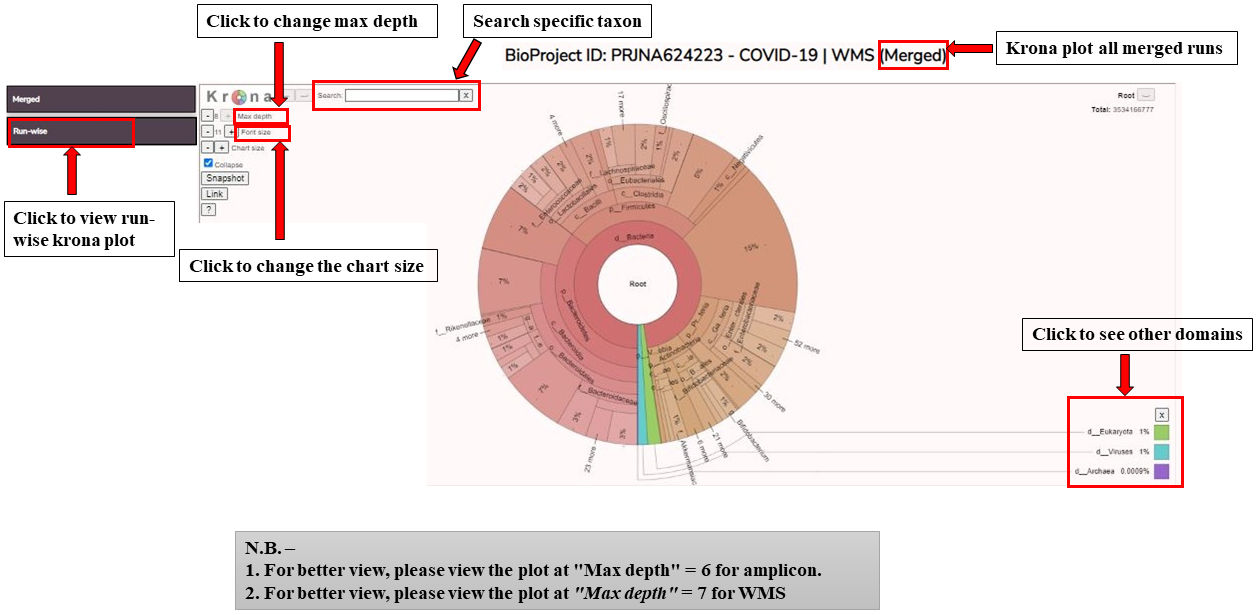
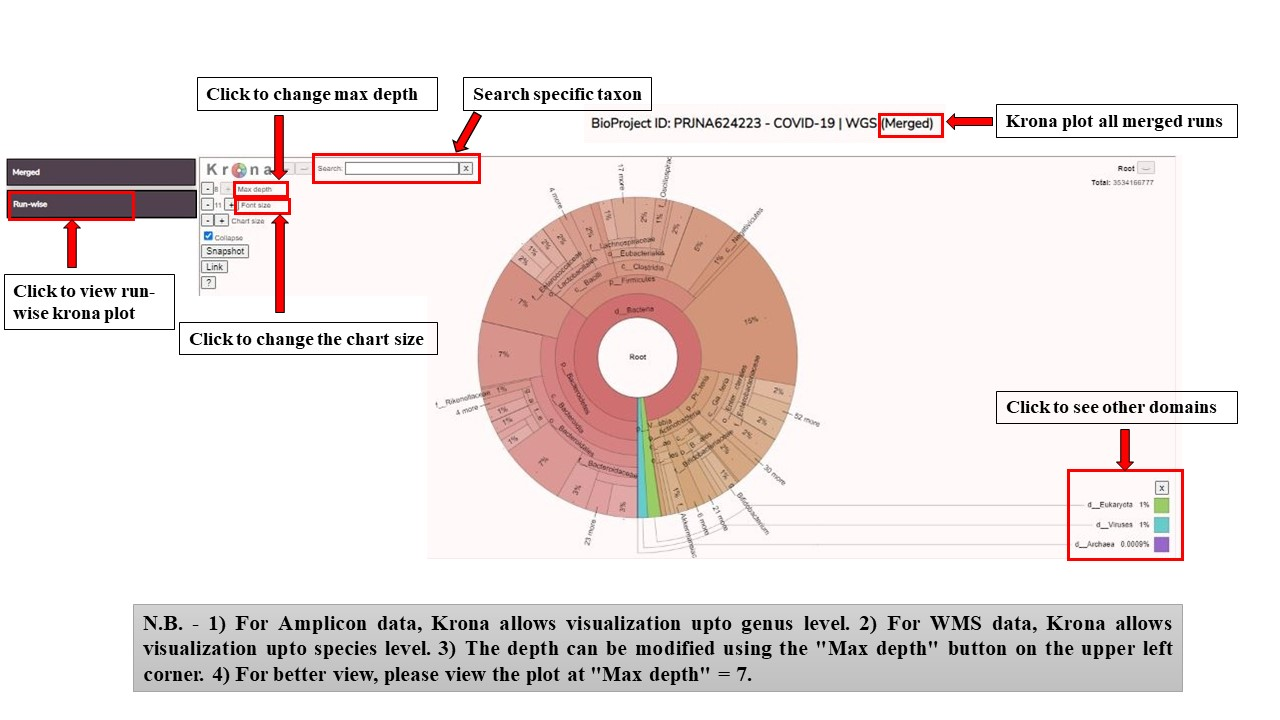
Update 'Help' page figures

diff --git a/help.html b/help.html
@@ -14,6 +14,10 @@
             p{
                 font-size: 1.2em;
             }
+            img{
+                max-width: 100%;
+                width: auto;
+            }
         </style>
     </head>
     <body>
@@ -40,14 +44,15 @@
             <ol type="1">
                 <li>
                     <p>The <b>Search Option</b> on the home page allows users to query the database with specific
-                    keywords for Disease, Assay type, Country, Isolation source, Instrument, Year.</p>
+                    keywords for <i>Disease</i>, <i>Assay type</i>, <i>Country</i>, <i>Isolation source</i>,
+                    <i>Instrument</i> and <i>Year</i>.</p>
                     <center><img src="resource/search.jpg" height="300px" /></center>
                     <ol type="A">
                         <li>
-                            <p>The <b>search result page</b> provides the information of the Run ID, BioProject ID, SRA
-                            Study ID, Disease, Disease Sub-group, Isolation Source, Instrument, Assay Type,
-                            Country and Year.</p>
-                            <center><img src="resource/search_result.jpg" height="500px" /></center>
+                            <p>The <b>search result page</b> provides information about the Run ID, BioProject ID,
+                            SRA Study ID, Disease, Disease Sub-group, Isolation Source, Instrument, Assay Type,
+                            Country, and Year.</p>
+                            <center><img src="resource/search_result.jpg" height="400px" /></center>
                         </li>
                         <li>
                             <p>The <b>Run page</b> gives the information of the Experiment ID, BioSample ID, Average
@@ -58,25 +63,29 @@
                         <li>
                             <p>The <b>BioProject page</b> shows the information related to the study and the total number of
                             runs of the BioProject. If subgroups are present for the study, then a plot of differential
-                            taxa can be accessed by LDA plot. Taxonomic profile can be visualized with Krona plots for
-                            group or subgroup. The Run ID (s) link to the <b>Run page</b> and the link just beneath the title
+                            taxa can be visualized as LDA plot. Taxonomic profiles can be visualized with Krona plots for
+                            group or subgroup. The Run ID(s) link to the <b>Run page</b> and the link just beneath the title
                             leads to the NCBI BioProject page.</p>
                             <center><img src="resource/bioproject_page.jpg" height="500px" /></center>
                         </li>
                         <li>
                             <p>The <b>LDA (Linear Discriminant Analysis) plot</b> provides information about the
-                            differential biomarkers (genus for amplicon and species for WMS). While the bars denote the
-                            marker genus/species, the length depicts the log<sub>10</sub> (LDA score) (log<sub>10</sub> LDA &ge; 2).</p>
-                            <center><img src="resource/lda.jpg" height="500px" /></center>
+                            differential biomarkers (genus for amplicon; and species for WMS). The horizontal
+                            bars represent the genus/species and the length of the bar denotes the LDA score
+                            (log<sub>10</sub>). LDA score signifies the effect size of each differentially
+                            abundant microbe. A cut-off of <i>log<sub>10</sub> LDA &ge; 2</i> was chosen for
+                            making the plot. The Kruskal-Wallis cutoff <i>p-value &lt; 0.01</i> was chosen.
+                            <center><img src="resource/lda.jpg" height="600px" /></center>
                         </li>
                         <li>
-                            <p>The taxonomic profile of microbiome data of different isolation sources such as sputum,
-                            BAL, Stool can be visualized by Krona plots. Two types of krona plots were made, (i) by
-                            merging all the runs and (ii) by keeping individual runs. The taxonomic level changes from
-                            lower (genus/species) to higher level (domain) as we move from the outer ring to the inner
-                            ring of the plot.<br/>
-                            For a better view, see the plot at <i>"max depth = 6"</i> for amplicon (amplicon) and
-                            <i>"max depth = 7"</i> for WMS (species).</p>
+                            <p>The taxonomic composition of microbiome data of different isolation sources of lung
+                            conditions can be visualized by Krona plots. Two types of Krona plots are present in the
+                            database, (i) for merged sequence runs and (ii) for each sequence runs. The hierarchical
+                            taxonomic classification can be visualized with this plot with genus/species at the outer
+                            ring and the inner ring denoting the domains. The color gradient shows the abundant taxa
+                            (red) and green denotes the least abundant taxa.<br/>
+                            For a better view, see the plot at <i>"max depth = 6"</i> for amplicon (genus) and
+                            <i>"max depth = 7"</i> for WGS (species).
                             <table style="width:100%;">
                                 <tr>
                                     <td style="width:48%; margin:0 1% 0 1%;">(a)</td>
@@ -94,54 +103,66 @@
                 </li>
 
                 <li>
-                    <p>The browse page of MDPD is divided into four parts.</p>
+                    <p>The browse page of MDPD has five sections.</p>
                     <ol type="A">
                         <li>
-                            <p><b>Disease-wise BioProjects</b> provide the information about the studies associated with the
-                            disease. </p>
-                            <center><img src="resource/disease_wise_bioprojects.jpg" height="200px" /></center>
+                            <p>The first section provides information about the <b>Disease-wise BioProjects</b>.</p>
+                            <center><img src="resource/disease_wise_bioprojects.jpg" height="300px" /></center>
                             <p>Click any one of the diseases to view the list of BioProjects associated with the study.
                             Click one BioProject to go to the <b>BioProject page</b>.</p>
-                            <center><img src="resource/disease_wise_bioprojects_1.jpg" height="300px" /></center>
+                            <center><img src="resource/disease_wise_bioprojects_1.jpg" height="400px" /></center>
+                            <p>Click the checkbox to show only BioProjects with Healthy/Control.</p>
+                            <center><img src="resource/disease_wise_bioprojects_2.jpg" height="400px" /></center>
                         </li>
                         <li>
-                            <p><b>Disease-wise taxonomic profile (Krona plot) across isolation sources</b> help users to
-                            view the taxonomic profile of microbiome across different isolation sources of the lung
-                            diseases and healthy group using krona plot.</p>
-                            <center><img src="resource/krona_table.jpg" height="400px" /></center>
+                            <p>The second section provides information about the <b>Disease subgroup-wise BioProjects</b>.</p>
+                            <center><img src="resource/subgroup_wise_bioprojects_1.jpg" height="300px" /></center>
+                            <p>Click any one of the disease subgroups to view the list of BioProjects associated with
+                            the study. Click one BioProject to go to the BioProject page.</p>
+                            <center><img src="resource/subgroup_wise_bioprojects_2.jpg" height="300px" /></center>
                         </li>
                         <li>
-                            <p><b>Disease-wise similarity analysis across Gut-Lung biomes</b> enables the users to fetch
-                            the list of shared prevalent microbes between lung and gut microbiome of each lung disease
-                            and healthy group. Isolation sources with the highest number of runs were taken for the
-                            analysis such as "sputum" and "stool" for "Asthma". Click <i>"get result"</i> to view the shared
-                            prevalent microbes.</p>
-                            <center><img src="resource/similarity_table.jpg" height="350px" /></center>
-                            <p>The prevalent taxa that are unique to lung, unique to gut biome
-                            and shared by both biome can be visualized with <b>UpSet plot</b>. The
-                            shared prevalent taxa list can be seen by <b>diverging bar plot (Likert)</b>.
-                            A cut-off of minimum prevalence of 50% at detection
-                            level &ge; 0.0001 was taken to obtain the prevalent taxa.</p>
+                            <p>The third section provides the facility of <b>visualizing the taxonomic profile</b> of
+                            the microbiome across different isolation sources of the lung conditions using a <b>Krona
+                            plot</b>.</p>
+                            <center><img src="resource/krona_table.jpg" height="500px" /></center>
+                        </li>
+                        <li>
+                            <p>The fourth section enables the users to obtain the list of <b>shared prevalent taxa
+                            between lung and gut microbiomes</b> of different lung conditions. The isolation sources
+                            with the highest number of runs for lung and gut were taken for this analysis. Click
+                            <b>"Get result"</b> to view the shared microbes plot.
+                            <center><img src="resource/similarity_table.jpg" height="400px" /></center>
+                            <p>The <b>UpSet plot</b> shows the number of organisms that are found in the lungs, gut,
+                            and microbiomes. The <b>Likert plot</b> (diverging bar plot) depicts the prevalence of
+                            the organisms that are found in both lung and gut microbiomes. A <i>prevalence cut-off</i>
+                            of 50% at a <i>detection level &ge; 0.0001</i> was taken to get the prevalent taxa.</p>
                             <center><img src="resource/similarity_figure.jpg" height="500px" /></center>
                         </li>
                         <li>
-                            <p><b>Differential analyses of disease pairs (LDA plot and heatmap)</b> provides the facility
-                            to obtain the set of differentially abundant taxa between a pair of lung disease or disease-
-                            healthy group. The analysis was done on the isolation sources that are available for both
-                            conditions. Click any button <i>"Show"</i> to view the associated pair.</p>
-                            <center><img src="resource/lda_disease_pair_table.jpg" height="400px" /></center>
-                            <p>Users can obtain the LDA plot (horizontal bar plot) by clicking the <i>"Get LDA plot"</i> to
-                            see the differentially abundant taxa for the pair of lung conditions/group (cut-off log<sub>10</sub>
-                            LDA &ge; 2). With the <i>"Get heatmap"</i> option users can view the relative abundances of
-                            differentially abundant taxa (cut-off log<sub>10</sub> LDA &ge; 3) for the disease pair and the
+                            <p>The fifth section provides the facility to obtain the set of <b>differentially abundant
+                            taxa between a pair of lung conditions </b>. The analyses were done on the isolation sources
+                            where the data is available for both conditions. Click any button <b>"Show"</b> to view the
+                            associated pair.</p>
+                            <center><img src="resource/lda_disease_pair_table.jpg" height="500px" /></center>
+                            <p>Users can obtain the LDA plot (horizontal bar plot) by clicking the <b>"Get LDA plot"</b>
+                            to see the differentially abundant taxa for the pair of lung conditions/groups (cut-off
+                            <i>log<sub>10</sub> LDA &ge; 2</i>). With the <b>"Get heatmap"</b> option users can get the
+                            most abundant taxa (cut-off <i>log<sub>10</sub> LDA &ge; 3</i>) for the disease pair and the
                             BioProjects as the source of marker taxa.</p>
                             <center><img src="resource/heatmap.jpg" height="600px" /></center>
                             <p>There are few buttons to modify the plot.</p>
-                            <center><img src="resource/symbols.jpg" height="300px" /></center>
+                            <center><img src="resource/symbols.jpg" height="250px" /></center>
                         </li>
                     </ol>
                 </li>
             </ol>
+            <br/><hr/>
+            <p style="font-size:0.9em;text-align:center;">
+                &#169; 2023 Bose Institute. All rights reserved. For queries, please contact Dr. Sudipto Saha
+                (<a style="color:#003325;" href="mailto:ssaha4@jcbose.ac.in">ssaha4@jcbose.ac.in</a>,
+                <a style="color:#003325;" href="mailto:ssaha4@gmail.com">ssaha4@gmail.com</a>).
+            </p>
         </div>
     </body>
 </html>
